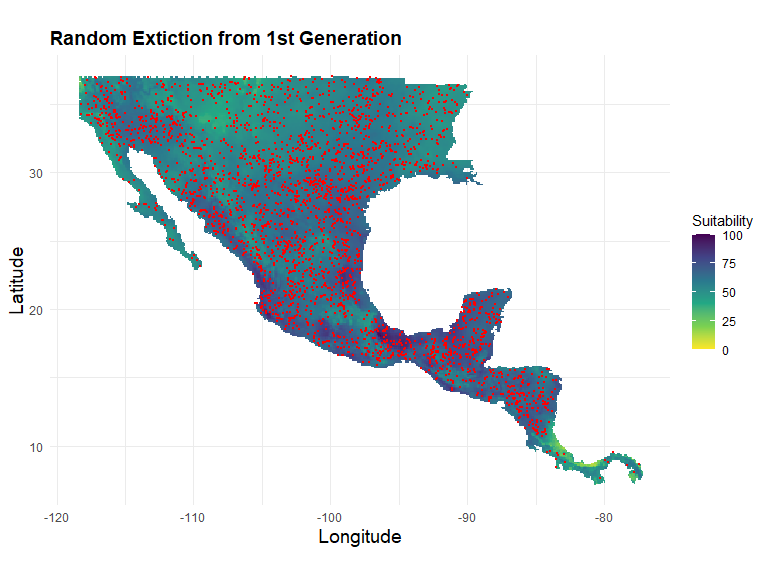
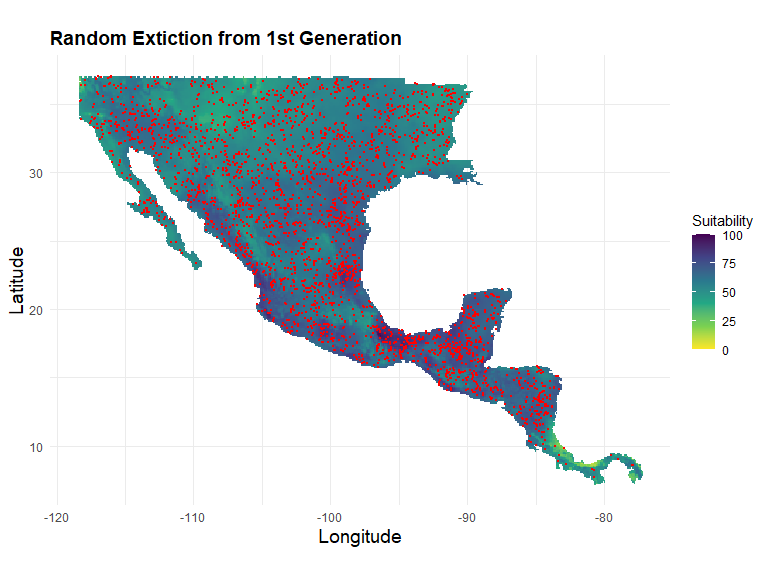
add demo

Changed region(s): [[0.125, 0.125, 0.7188, 0.75], [0.1875, 0.3438, 0.2188, 0.375]]

diff --git a/vignettes/Demo.md b/vignettes/Demo.md
@@ -118,12 +118,12 @@ take a couple minutes…
 <summary>Hide code</summary>
 
 ``` r
-spread_sim <- simulate_generations(gen_n = 5,        # Number of generations to simulate 
+spread_sim <- simulate_generations(gen_n = 15,        # Number of generations to simulate 
                                    input_r = test_r,  # Environmental suitability raster
                                    n = 500,           # Initial population size
                                    strain_n = 4,      # number of strains to randomly assign
                                    mean_dis = 50,     # mean virus movement distance (km)
-                                   R0 = c(1,3,2,5)    # Reproduction number, mean offspring
+                                   R0 = c(1,1.5,2,3)  # Reproduction number, mean offspring
                                    )                  # can be unique R0 by strain
 
 
@@ -132,7 +132,7 @@ dim(spread_sim)
 
 </details>
 
-    [1] 58269     5
+    [1] 169372      5
 
 <details open>
 <summary>Hide code</summary>
@@ -143,7 +143,7 @@ range(spread_sim$gen)
 
 </details>
 
-    [1] 1 5
+    [1]  1 15
 
 <details open>
 <summary>Hide code</summary>
@@ -157,12 +157,12 @@ spread_sim %>%
 </details>
 
     # A tibble: 4 × 2
-      strain   Count
-      <chr>    <int>
-    1 strain.1 50482
-    2 strain.2  1038
-    3 strain.3  6518
-    4 strain.4   231
+      strain    Count
+      <chr>     <int>
+    1 strain.1   4243
+    2 strain.2  49453
+    3 strain.3 110729
+    4 strain.4   4947
 
 <details open>
 <summary>Hide code</summary>
@@ -174,12 +174,12 @@ head(spread_sim)
 </details>
 
       rand.id   strain      lat       long gen
-    1     1.1 strain.4 33.11672 -100.38715   1
-    2     2.1 strain.3 30.07584  -98.95731   1
-    3     2.1 strain.3 29.43842  -99.53995   1
-    4     5.1 strain.2 30.99547 -104.01927   1
-    5     5.1 strain.2 30.55787 -103.75090   1
-    6     5.1 strain.2 30.94391 -104.62480   1
+    1     1.1 strain.1 17.86939  -98.51073   1
+    2     4.1 strain.1 34.34989 -112.92896   1
+    3     5.1 strain.3 29.59420 -100.73991   1
+    4     5.1 strain.3 29.57425 -100.76328   1
+    5     6.1 strain.4 19.08505 -100.88732   1
+    6     6.1 strain.4 18.23934 -100.80351   1
 
 ## Animated Generation Series
 
@@ -190,7 +190,7 @@ head(spread_sim)
 animate_generations2(
   raster_layer = test_r, # suitability for map background
   point_data = spread_sim, # data simulated above
-  output_file = "./assets/sim_generations.gif" # name for saved gif
+  output_file = "sim_generations.gif" # name for saved gif
 )
 ```
 
@@ -231,12 +231,12 @@ head(initial_virus)
 </details>
 
             long      lat rand.id   strain
-    1 -102.93091 21.34619       1 strain.2
-    2  -98.19637 28.55091       2 strain.3
-    3  -96.75543 17.22920       3 strain.2
-    4  -95.82911 18.05260       4 strain.2
-    5  -88.93315 20.11109       5 strain.3
-    6 -104.57770 20.93449       6 strain.2
+    1 -106.63620 31.74158       1 strain.2
+    2  -98.50515 36.78489       2 strain.4
+    3  -98.81392 29.06554       3 strain.2
+    4 -111.88536 32.56498       4 strain.1
+    5  -89.85948 15.47948       5 strain.1
+    6 -100.35779 18.05260       6 strain.1
 
 View Results  
 Random assignment but weighted by suitabilty score.
@@ -273,7 +273,7 @@ dim(virus_spread)
 
 </details>
 
-    [1] 4693    4
+    [1] 4672    4
 
 <details open>
 <summary>Hide code</summary>
@@ -285,12 +285,12 @@ head(virus_spread) # Note that the rand.id can be traced back to initial point o
 </details>
 
       rand.id   strain      lat      long
-    1     1.1 strain.2 20.89538 -102.9627
-    2     1.1 strain.2 21.01431 -102.5992
-    3     1.1 strain.2 21.22387 -102.4709
-    4     1.1 strain.2 21.28404 -103.4044
-    5     1.1 strain.2 21.58438 -102.5155
-    6     1.1 strain.2 20.97762 -102.6900
+    1     1.1 strain.2 31.30032 -106.7221
+    2     1.1 strain.2 31.52144 -107.1214
+    3     1.1 strain.2 31.30435 -106.6890
+    4     1.1 strain.2 31.67790 -107.1596
+    5     1.1 strain.2 31.31868 -106.4258
+    6     1.1 strain.2 31.30654 -106.4366
 
 View Results Offspring from initial virus locations.
 
@@ -322,7 +322,7 @@ dim(extant_virus)
 
 </details>
 
-    [1] 2846    4
+    [1] 2832    4
 
 <details open>
 <summary>Hide code</summary>
@@ -333,13 +333,13 @@ head(extant_virus)
 
 </details>
 
-      rand.id   strain      lat      long
-    1     1.1 strain.2 20.89538 -102.9627
-    2     1.1 strain.2 21.01431 -102.5992
-    3     1.1 strain.2 21.22387 -102.4709
-    4     1.1 strain.2 21.28404 -103.4044
-    5     1.1 strain.2 21.58438 -102.5155
-    6     1.1 strain.2 20.97762 -102.6900
+      rand.id   strain      lat       long
+    1     1.1 strain.2 31.30032 -106.72213
+    2     1.1 strain.2 31.30435 -106.68897
+    3     1.1 strain.2 31.31868 -106.42577
+    4     1.1 strain.2 31.30654 -106.43656
+    5     2.1 strain.4 36.43267  -98.14799
+    6     2.1 strain.4 36.32542  -98.50386
 
 View Results  
 View first generation offspring after local extinction.
@@ -379,7 +379,7 @@ dim(spread_sim)
 
 </details>
 
-    [1] 21585     5
+    [1] 18862     5
 
 <details open>
 <summary>Hide code</summary>
@@ -402,12 +402,12 @@ head(spread_sim)
 </details>
 
       rand.id   strain      lat       long gen
-    1     1.1 strain.4 35.39683  -97.92594   1
-    2     1.1 strain.4 34.82415  -97.84398   1
-    3     2.1 strain.2 22.36759  -99.50271   1
-    4     2.1 strain.2 22.51907  -99.79097   1
-    5     2.1 strain.2 21.71239 -100.14079   1
-    6     3.1 strain.1 16.31942  -92.77536   1
+    1     1.1 strain.3 29.85818 -100.17598   1
+    2     1.1 strain.3 30.08495 -100.45134   1
+    3     4.1 strain.1 22.63088 -102.30805   1
+    4     4.1 strain.1 21.87892 -102.25189   1
+    5     5.1 strain.1 36.16913  -94.57906   1
+    6     5.1 strain.1 35.49101  -94.52694   1
 
 View Results  
 Panel View of simulation.

diff --git a/README.md b/README.md
@@ -1,1 +1,6 @@
-# vesstosim
+# vesstosim  
+A set of functions to simulate disease spread.  Intended for visualization and educational purposes only.  
+
+See the [Demo Vignette](https://github.com/geoepi/vesstosim/blob/main/vignettes/Demo.md) for a brief overview.  
+    
+![](vignettes/sim_generations.gif)    
